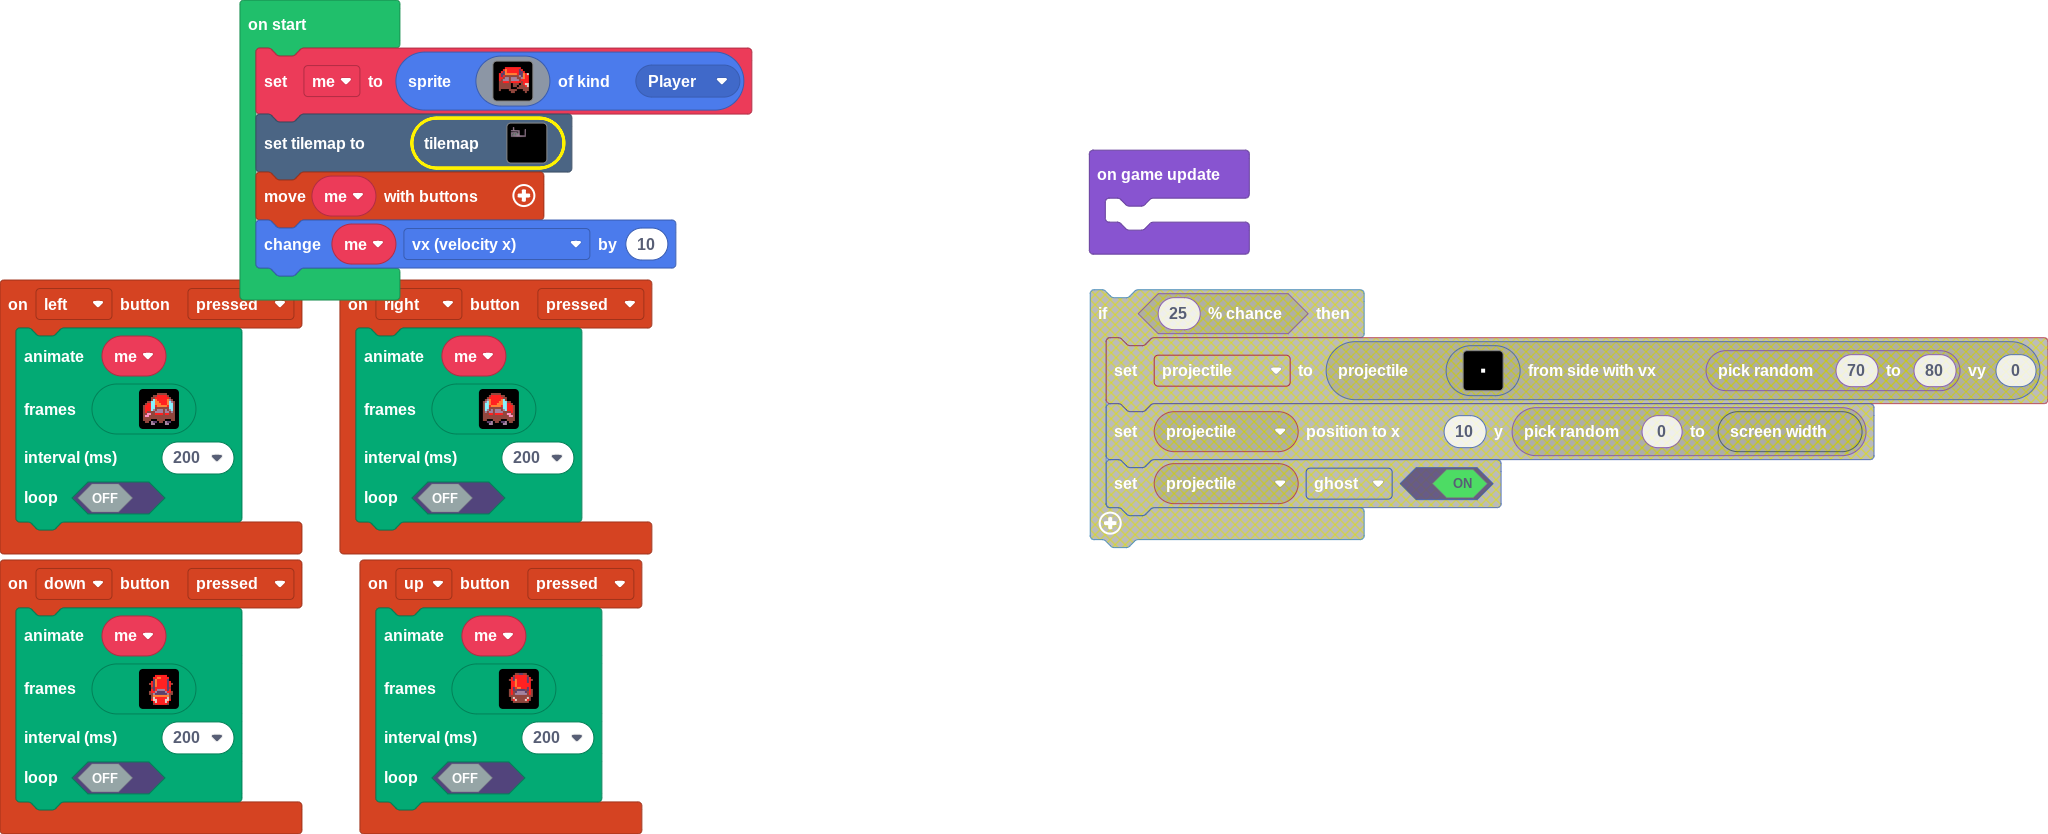
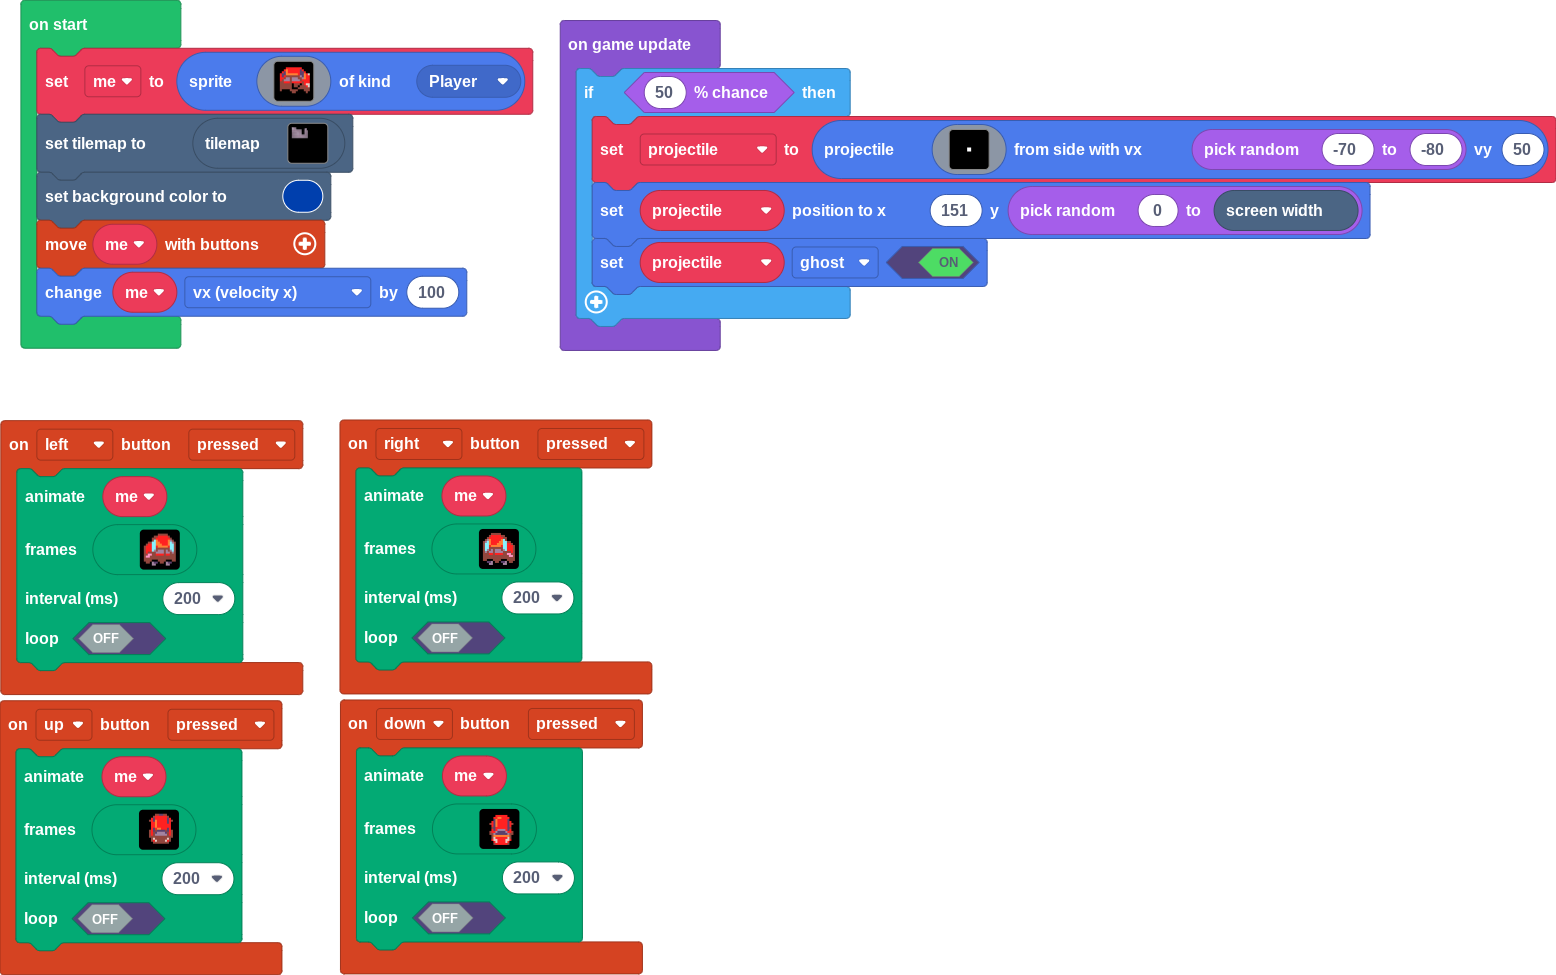
Update main.blocks, main.ts, tilemap.g.jres, tilemap.g.ts

diff --git a/tilemap.g.ts b/tilemap.g.ts
@@ -63,7 +63,17 @@ namespace myTiles {
 . . . . . . . . . . . . . . . . 
 `, [myTiles.transparency16], TileScale.Sixteen);
             case "level1":
[2 lines of base64/hex data omitted]
+22.2..........................
+22.22.......22................
+22.222222...2.................
+........2...2.2...............
+2222222.2...2.2...............
+.....22.2...2.2...............
+.222222.2...2.2...............
+.222222.22222.2...............
+..............2...............
+222222222222222...............
 ..............................
 ..............................
 ..............................
@@ -84,17 +94,7 @@ namespace myTiles {
 ..............................
 ..............................
 ..............................
-..............................
-..............................
-..............................
-..............................
-..............................
-..............................
-..............................
-..............................
-..............................
-..............................
-`, [myTiles.transparency16,sprites.vehicle.roadIntersection1,sprites.vehicle.roadHorizontal,sprites.vehicle.roadVertical,sprites.vehicle.roadTurn2,sprites.vehicle.roadTurn4,sprites.vehicle.roadTurn3,sprites.vehicle.roadTurn1,sprites.castle.saplingPine,sprites.castle.rock2,sprites.castle.shrub,sprites.castle.saplingOak,sprites.castle.rock1], TileScale.Sixteen);
+`, [myTiles.transparency16,sprites.vehicle.roadIntersection1,sprites.vehicle.roadHorizontal,sprites.vehicle.roadVertical,sprites.vehicle.roadTurn2,sprites.vehicle.roadTurn4,sprites.vehicle.roadTurn3,sprites.vehicle.roadTurn1,sprites.dungeon.hazardSpike], TileScale.Sixteen);
         }
         return null;
     })

diff --git a/main.ts b/main.ts
@@ -200,6 +200,7 @@ controller.down.onEvent(ControllerButtonEvent.Pressed, function () {
     false
     )
 })
+let projectile: Sprite = null
 let me: Sprite = null
 me = sprites.create(img`
     . . . . . . . . . . . . . . . . 
@@ -220,8 +221,30 @@ me = sprites.create(img`
     . . . . . . . . . . . . . . . . 
     `, SpriteKind.Player)
 tiles.setCurrentTilemap(tilemap`level1`)
+scene.setBackgroundColor(8)
 controller.moveSprite(me)
-me.vx += 10
+me.vx += 100
 game.onUpdate(function () {
-	
+    if (Math.percentChance(50)) {
+        projectile = sprites.createProjectileFromSide(img`
+            . . . . . . . . . . . . . . . . 
+            . . . . . . . . . . . . . . . . 
+            . . . . . . . . . . . . . . . . 
+            . . . . . . . . . . . . . . . . 
+            . . . . . . . . . . . . . . . . 
+            . . . . . . . . . . . . . . . . 
+            . . . . . . . . . . . . . . . . 
+            . . . . . . . 1 1 . . . . . . . 
+            . . . . . . . 1 1 . . . . . . . 
+            . . . . . . . . . . . . . . . . 
+            . . . . . . . . . . . . . . . . 
+            . . . . . . . . . . . . . . . . 
+            . . . . . . . . . . . . . . . . 
+            . . . . . . . . . . . . . . . . 
+            . . . . . . . . . . . . . . . . 
+            . . . . . . . . . . . . . . . . 
+            `, randint(-70, -80), 50)
+        projectile.setPosition(151, randint(0, scene.screenWidth()))
+        projectile.setFlag(SpriteFlag.Ghost, true)
+    }
 })
